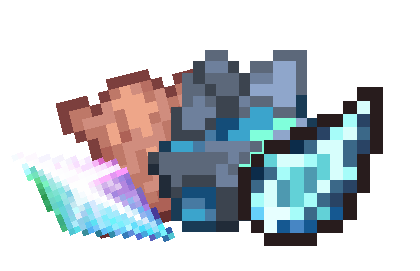
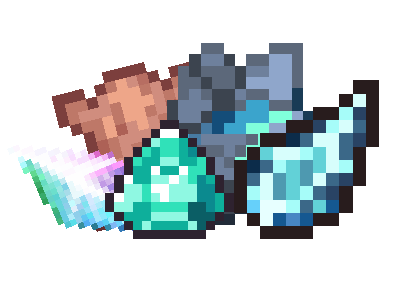
Add new Textures

diff --git a/Map/data.js b/Map/data.js
@@ -432,7 +432,7 @@ const FLOOR_MARKERS = {
     { id: 'm1a5',  type: 'artisant', gx: 1787, gy: 4697, name: "Forgeron d'Accessoires en Cuivre",  desc: "Forgeron des Accessoires en Cuivre pour Débutants", link: 'https://drabiot.github.io/Veilleurs/Bestiaire/bestiaire.html#personnages/forgeron_accessoires_cuivre_vdp' },
     { id: 'm1a6',  type: 'artisant', gx: 1776, gy: 4684, name: "Forgeron d'Accessoires en Fer",     desc: "Forgeron des Accessoires en Fer pour Débutants", link: 'https://drabiot.github.io/Veilleurs/Bestiaire/bestiaire.html#personnages/forgeron_accessoires_fer_vdp' },
     { id: 'm1a7',  type: 'artisant', gx: 1776, gy: 4693, name: 'Refaçonneur',                       desc: "Permet la fabrication de ficelle en tout genre", link: 'https://drabiot.github.io/Veilleurs/Bestiaire/bestiaire.html#personnages/refaconneur_vdp' },
-    { id: 'm1a8',  type: 'artisant', gx: 2397, gy: 3568, name: 'Forgeron de Lingots',               desc: "Forgeron de Lingots de Cuivre et de Fer", link: 'https://drabiot.github.io/Veilleurs/Bestiaire/bestiaire.html#personnages/forgeron_lingot_vdp' },
+    { id: 'm1a8',  type: 'artisant', gx: 2397, gy: 3568, name: 'Forgeron de Lingots Cuivre & Fer',               desc: "Forgeron de Lingots de Cuivre et de Fer", link: 'https://drabiot.github.io/Veilleurs/Bestiaire/bestiaire.html#personnages/forgeron_lingot_vdp' },
     { id: 'm1a9',  type: 'artisant', gx: 3235, gy: 1482, name: "Forgeron d'Armes",                  desc: "Forgeron des Armes pour Confirmés", link: 'https://drabiot.github.io/Veilleurs/Bestiaire/bestiaire.html#personnages/forgeron_armes_tolbana' },
     { id: 'm1a10', type: 'artisant', gx: 3237, gy: 1477, name: "Forgeron d'Armures",                desc: "Forgeron des Armures pour Confirmés", link: 'https://drabiot.github.io/Veilleurs/Bestiaire/bestiaire.html#personnages/forgeron_armures_tolbana' },
     { id: 'm1a11', type: 'artisant', gx: 2415, gy: 2373, name: "Forgeron d'Armes",                  desc: "Forgeron d'Armes du Donjon du Labyrinthe des Déchus", link: 'https://drabiot.github.io/Veilleurs/Bestiaire/bestiaire.html#personnages/forgeron_armes_labyrinthe' },
@@ -452,8 +452,8 @@ const FLOOR_MARKERS = {
 
     { id: 'm1m1',  type: 'marchand', gx: 1788, gy: 4162, name: "Marchand d'Équipement",    desc: "Vends des Armes et objets pour les Nouveaux Arrivants", link: 'https://drabiot.github.io/Veilleurs/Bestiaire/bestiaire.html#personnages/repreneur_equipement_vdp' },
     { id: 'm1m2',  type: 'marchand', gx: 1503, gy: 3391, name: "Marchand d'Équipement",    desc: "Vends des Armes et objets pour les Nouveaux Arrivants", link: 'https://drabiot.github.io/Veilleurs/Bestiaire/bestiaire.html#personnages/repreneur_equipement_hanaka' },
-    { id: 'm1m3',  type: 'marchand', gx: 485,  gy: 3058, name: "Marchand d'Accessoires",   desc: "Vends des Accessoires Gluants", link: 'https://drabiot.github.io/Veilleurs/Bestiaire/bestiaire.html#personnages/marchand_accessoire_vallhat' },
-    { id: 'm1m4',  type: 'marchand', gx: 3320, gy: 1605, name: "Marchand d'Accessoires",   desc: "Vends des Accessoires Résistants", link: 'https://drabiot.github.io/Veilleurs/Bestiaire/bestiaire.html#personnages/marchand_accessoire_tolbana' },
+    { id: 'm1m3',  type: 'marchand', gx: 485,  gy: 3058, name: "Marchand d'Accessoires Gluant",   desc: "Vends des Accessoires Gluants", link: 'https://drabiot.github.io/Veilleurs/Bestiaire/bestiaire.html#personnages/marchand_accessoire_vallhat' },
+    { id: 'm1m4',  type: 'marchand', gx: 3320, gy: 1605, name: "Marchand d'Accessoires Tolbana",   desc: "Vends des Accessoires Résistants", link: 'https://drabiot.github.io/Veilleurs/Bestiaire/bestiaire.html#personnages/marchand_accessoire_tolbana' },
     { id: 'm1m5',  type: 'marchand', gx: 1813, gy: 4162, name: "Marchand d'Outils",        desc: "Vends des outils pour récolter des matières premières", link: 'https://drabiot.github.io/Veilleurs/Bestiaire/bestiaire.html#personnages/marchand_outils_vdp' },
     { id: 'm1m6',  type: 'marchand', gx: 1587, gy: 1985, name: "Marchand d'Outils",        desc: "Vends des outils pour récolter des matières premières", link: 'https://drabiot.github.io/Veilleurs/Bestiaire/bestiaire.html#personnages/marchand_outils_virelune' },
     { id: 'm1m7',  type: 'marchand', gx: 3335, gy: 1621,  name: "Marchand d'Outils",        desc: "Vends des outils pour récolter des matières premières", link: 'https://drabiot.github.io/Veilleurs/Bestiaire/bestiaire.html#personnages/marchand_outils_tolbana' },
@@ -620,20 +620,20 @@ const FLOOR_MARKERS = {
     { id: 'm2c5', type: 'clef', emoji: '💍', gx: -37, gy: 199, name: "Fabricant Secret du Sanctuaire",                       desc: "Permet la confection Secrète du Collier Runique",     link: 'https://guilde-sao.gitbook.io/watchers/paliers/palier-2/carte/personnages/fabricants-clefs-et-secrets#sanctuaire-de-khesun' },
 	{ id: 'm2c6', type: 'clef', emoji: '💍', gx: -713, gy: -92, name: "Fabricant Secret de la Corruption",                    desc: "Permet la confection Secrète du très puissant Masque Corrompu",     link: 'https://guilde-sao.gitbook.io/watchers/paliers/palier-2/~/changes/107/carte/personnages/fabricants-clefs-et-secrets#corruption' },
 
-    { id: 'm2m1',  type: 'marchand', gx: -573, gy: -287, name: "Marchand d'Équipement",    desc: "Vends des Armes et objets pour les Nouveaux Arrivants", link: 'https://guilde-sao.gitbook.io/watchers/paliers/palier-2/carte/personnages/marchands#kaelor' },
-    { id: 'm2m2',  type: 'marchand', gx: -570, gy: -287, name: "Marchand d'Accessoires",   desc: "Vends des Accessoires de la faune du Palier 2", link: 'https://guilde-sao.gitbook.io/watchers/paliers/palier-2/carte/personnages/marchands#kaelor-1' },
-    { id: 'm2m3',  type: 'marchand', gx: -583, gy: -284, name: "Marchand d'Outils",        desc: "Vends des outils pour récolter des matières premières", link: 'https://guilde-sao.gitbook.io/watchers/paliers/palier-2/carte/personnages/marchands#kaelor-2' },
+    { id: 'm2m1',  type: 'marchand', gx: -573, gy: -287, name: "Marchand d'Équipement",    desc: "Vends des Armes et objets pour les Nouveaux Arrivants", link: 'https://drabiot.github.io/Veilleurs/Bestiaire/bestiaire.html#personnages/marchand_equipement_kaelor' },
+    { id: 'm2m2',  type: 'marchand', gx: -570, gy: -287, name: "Marchand d'Accessoires",   desc: "Vends des Accessoires de la faune du Palier 2", link: 'https://drabiot.github.io/Veilleurs/Bestiaire/bestiaire.html#personnages/marchand_accessoires_kaelor' },
+    { id: 'm2m3',  type: 'marchand', gx: -583, gy: -284, name: "Marchand d'Outils",        desc: "Vends des outils pour récolter des matières premières", link: 'https://drabiot.github.io/Veilleurs/Bestiaire/bestiaire.html#personnages/marchand_outils_kaelor' },
 
-    { id: 'm2a1', type: 'artisant',  gx: -570, gy: -293, name: 'Alchimiste',               desc: "Alchimiste permettant la Réalisation de Potions et Cristaux", link: 'https://guilde-sao.gitbook.io/watchers/paliers/palier-2/carte/personnages/alchimistes#kaelor' },
-    { id: 'm2a2', type: 'artisant',  gx: -573, gy: -294, name: 'Bucheron',                 desc: "Bucheron permettant la Réalisation de Planches", link: 'https://guilde-sao.gitbook.io/watchers/paliers/palier-2/carte/personnages/bucherons#kaelor' },
-    { id: 'm2a3', type: 'artisant',  gx: 2,    gy: -357, name: 'Refaçonneur',              desc: "Permet la fabrication de ficelle en tout genre", link: 'https://guilde-sao.gitbook.io/watchers/paliers/palier-2/carte/personnages/refaconneurs#urbus' },
-    { id: 'm2a4', type: 'artisant',  gx: 115,  gy: -415, name: 'Forgeron d\'Accessoires',  desc: "Permet la fabrication d'Accessoires puissant", link: 'https://guilde-sao.gitbook.io/watchers/paliers/palier-2/carte/personnages/forgerons#urbus-accessoires' },
-    { id: 'm2a5', type: 'artisant',  gx: 124,  gy: -385, name: 'Forgeron de Lingots',      desc: "Permet la fabrication de lingots de Bauxite et d'Onyx Impur", link: '' },
-    { id: 'm2a6', type: 'artisant',  gx: 867, gy: -293, name: 'Forgeron de Lingots',      desc: "Permet la fabrication de lingots d'Onyx Pur", link: '' },
-    { id: 'm2a7', type: 'artisant',  gx: -602, gy: -284, name: 'Forgeron d\'Accessoires',  desc: "Permet la fabrication d'Accessoires des Ours et du Taureau", link: 'https://guilde-sao.gitbook.io/watchers/paliers/palier-2/carte/personnages/forgerons#kaelor-accessoires' },
-    { id: 'm2a8', type: 'artisant',  gx: -776, gy: 18,   name: 'Forgeron d\'Accessoires',  desc: "Permet la fabrication d'Accessoires de Feraille", link: 'https://guilde-sao.gitbook.io/watchers/paliers/palier-2/carte/personnages/forgerons#accessoires-ferraile' },
-    { id: 'm2a9', type: 'artisant',  gx: -194, gy: 20,   name: 'Forgeron d\'Accessoires',  desc: "Permet la fabrication d'Accessoires de Bauxite", link: 'https://guilde-sao.gitbook.io/watchers/paliers/palier-2/carte/personnages/forgerons#accessoires-bauxite' },
-    { id: 'm2a10',type: 'artisant',  gx: -502, gy: 336,   name: 'Forgeron d\'Accessoires',  desc: "Permet la fabrication d'Accessoires d'Onyx Impur", link: '' },
+    { id: 'm2a1', type: 'artisant',  gx: -570, gy: -293, name: 'Alchimiste',               desc: "Alchimiste permettant la Réalisation de Potions et Cristaux", link: 'https://drabiot.github.io/Veilleurs/Bestiaire/bestiaire.html#personnages/alchimiste_kaelor' },
+    { id: 'm2a2', type: 'artisant',  gx: -573, gy: -294, name: 'Bucheron',                 desc: "Bucheron permettant la Réalisation de Planches", link: 'https://drabiot.github.io/Veilleurs/Bestiaire/bestiaire.html#personnages/bucheron_kaelor' },
+    { id: 'm2a3', type: 'artisant',  gx: 2,    gy: -357, name: 'Refaçonneur',              desc: "Permet la fabrication de ficelle en tout genre", link: 'https://drabiot.github.io/Veilleurs/Bestiaire/bestiaire.html#personnages/refaconneur_urbus' },
+    { id: 'm2a4', type: 'artisant',  gx: 115,  gy: -415, name: 'Forgeron d\'Accessoires Puissant',  desc: "Permet la fabrication d'Accessoires puissant", link: 'https://drabiot.github.io/Veilleurs/Bestiaire/bestiaire.html#personnages/forgeron_accessoires_urbus' },
+    { id: 'm2a5', type: 'artisant',  gx: 124,  gy: -385, name: 'Forgeron de Lingots Bauxite & Onyx Impur',      desc: "Permet la fabrication de lingots de Bauxite et d'Onyx Impur", link: 'https://drabiot.github.io/Veilleurs/Bestiaire/bestiaire.html#personnages/forgeron_lingots_urbus' },
+    { id: 'm2a6', type: 'artisant',  gx: 867, gy: -293, name: 'Forgeron de Lingots Onyx Pur',      desc: "Permet la fabrication de lingots d'Onyx Pur", link: 'https://drabiot.github.io/Veilleurs/Bestiaire/bestiaire.html#personnages/forgeron_lingots_marome' },
+    { id: 'm2a7', type: 'artisant',  gx: -602, gy: -284, name: 'Forgeron d\'Accessoires',  desc: "Permet la fabrication d'Accessoires des Ours et du Taureau", link: 'https://drabiot.github.io/Veilleurs/Bestiaire/bestiaire.html#personnages/forgeron_accessoires_kaelor' },
+    { id: 'm2a8', type: 'artisant',  gx: -776, gy: 18,   name: 'Forgeron d\'Accessoires',  desc: "Permet la fabrication d'Accessoires de Feraille", link: 'https://drabiot.github.io/Veilleurs/Bestiaire/bestiaire.html#personnages/forgeron_accessoires_ferraille' },
+    { id: 'm2a9', type: 'artisant',  gx: -194, gy: 20,   name: 'Forgeron d\'Accessoires',  desc: "Permet la fabrication d'Accessoires de Bauxite", link: 'https://drabiot.github.io/Veilleurs/Bestiaire/bestiaire.html#personnages/forgeron_accessoires_bauxite' },
+    { id: 'm2a10',type: 'artisant',  gx: -502, gy: 336,   name: 'Forgeron d\'Accessoires',  desc: "Permet la fabrication d'Accessoires d'Onyx Impur", link: 'https://drabiot.github.io/Veilleurs/Bestiaire/bestiaire.html#personnages/forgeron_accessoires_onyx_impur' },
 
     { id: 'm2s1',  type: 'quête_secondaire',  gx: 112, gy: -391, name: "L'Art des Plumes",                         desc: "Ramenez 4 plumes de chaque Harpies à Ifa", link: 'https://guilde-sao.gitbook.io/watchers/paliers/palier-2/quetes/quetes-secondaires/urbus/lart-des-plumes' },
     { id: 'm2s2',  type: 'quête_secondaire',  gx: 105, gy: -392, name: "L'Art des Peaux",                         desc: "Ramenez différentes peaux de monstres à Ife", link: 'https://guilde-sao.gitbook.io/watchers/paliers/palier-2/quetes/quetes-secondaires/urbus/lart-des-peaux' },
@@ -686,7 +686,7 @@ const FLOOR_MARKERS_UNDERGROUND = {
 
     { id: 'm2c1u1', type: 'clef', emoji: '💍', gx: -694, gy: 205, name: "Fabricant Secret de la Harpie Enflammée",                     desc: "Permet la confection Secrète de l'Anneau de la Harpie Enflammée",     link: 'https://guilde-sao.gitbook.io/watchers/paliers/palier-2/carte/personnages/fabricants-clefs-et-secrets#nid-de-brasier' },
 
-    { id: 'm2a1u1',type: 'artisant',  gx: 339, gy: 509,   name: 'Forgeron d\'Accessoires',                 desc: "Permet la fabrication d'Accessoires d'Onyx Pur", link: '' },
+    { id: 'm2a1u1',type: 'artisant',  gx: 339, gy: 509,   name: 'Forgeron d\'Accessoires',                 desc: "Permet la fabrication d'Accessoires d'Onyx Pur", link: 'https://drabiot.github.io/Veilleurs/Bestiaire/bestiaire.html#personnages/forgeron_accessoires_onyx_pur' },
   ],
 };
 

diff --git a/Bestiaire/data.js b/Bestiaire/data.js
@@ -490,7 +490,7 @@ const PERSONNAGES = [
     palier: 1,
     region: 'Ville de Départ',
     regionId: 'm1a3',
-    img: '../img/compendium/textures/trinkets/P1/Set Loup Faiblard/Collier d\'Albal.png',
+    img: '../img/compendium/montages/forgeron_accessoires_vdp.png',
     lore: "Permet le fabrication d'accessoires de base.",
     craft: [
 			{ 
@@ -701,7 +701,7 @@ const PERSONNAGES = [
     palier: 1,
     region: 'Ville de Départ',
     regionId: 'm1m18',
-    img: '',
+    img: '../img/compendium/montages/itinerant_vdp.png',
     lore: "Vends & Achète nombreux objets locaux et originaire du Palier 1",
     sells: [
       { id: 'petite_bourse',  buy: 10,price: 7.5 },
@@ -815,7 +815,7 @@ const PERSONNAGES = [
     palier: 1,
     region: 'Hanaka',
     regionId: 'm1m15',
-    img: '',
+    img: '../img/compendium/montages/itinerant_hanaka.png',
     lore: "Vends & Achète nombreux objets locaux et originaire du Palier 1",
     sells: [
       { id: 'pousse_de_sylve',  buy: 6, price: 5 },
@@ -897,7 +897,7 @@ const PERSONNAGES = [
     palier: 1,
     region: 'Mizunari',
     regionId: 'm1m14',
-    img: '',
+    img: '../img/compendium/montages/itinerant_mizunari.png',
     lore: "Vends & Achète nombreux objets locaux et originaire du Palier 1",
     sells: [
       { id: 'cuir_use',  buy: 10, price: 7.5 },
@@ -1004,7 +1004,7 @@ const PERSONNAGES = [
     palier: 1,
     region: 'Vallhat',
     regionId: 'm1m16',
-    img: '',
+    img: '../img/compendium/montages/itinerant_vallhat.png',
     lore: "Vends & Achète nombreux objets locaux et originaire du Palier 1",
     sells: [
       { id: 'pousse_de_sylve',  buy: 6,price: 4.5 },
@@ -1108,7 +1108,7 @@ const PERSONNAGES = [
     palier: 1,
     region: 'Virelune',
     regionId: 'm1m17',
-    img: '',
+    img: '../img/compendium/montages/itinerant_virelune.png',
     lore: "Vends & Achète nombreux objets locaux et originaire du Palier 1",
     sells: [
       { id: 'tissu_araignee',  buy: 12,price: 9 },
@@ -1340,7 +1340,7 @@ const PERSONNAGES = [
     palier: 1,
     region: 'Tolbana',
     regionId: 'm1m13',
-    img: '',
+    img: '../img/compendium/montages/itinerant_tolbana.png',
     lore: "Vends & Achète nombreux objets locaux et originaire du Palier 1",
     sells: [
       { id: 'peau_dur_glacial',  buy: 20, price: 15 },
@@ -1606,7 +1606,7 @@ const PERSONNAGES = [
     palier: 1,
     region: 'Forêt d\'Arakh\'Nol',
     regionId: 'm1m11',
-    img: '',
+    img: '../img/compendium/montages/itinerant_virelune.png',
     lore: "Vends & Achète nombreux objets locaux et originaire du Palier 1",
     sells: [
       { id: 'tissu_araignee',  buy: 12, price: 9 },
@@ -1973,7 +1973,7 @@ const PERSONNAGES = [
     palier: 2,
     region: 'Urbus',
 		regionId: 'm2b1',
-    img: '',
+    img: '../img/compendium/montages/butin_urbus.png',
     lore: "Reprends des objets de Taureaux et d'Ours.",
     sells: [
       { id: 'peau_epaisse',  price: 10 },
@@ -1991,7 +1991,7 @@ const PERSONNAGES = [
     palier: 2,
     region: 'Urbus',
     regionId: 'm2a3',
-    img: '',
+    img: '../img/compendium/montages/refaconneur_urbus.png',
     lore: "Transforme des Ressources et des Fils d'Araignées pour réaliser des ficelles utile dans la confection d'Accessoires.",
     craft: [
 			{ 
@@ -2039,7 +2039,7 @@ const PERSONNAGES = [
     palier: 2,
     region: 'Urbus',
     regionId: 'm2a4',
-    img: '',
+    img: '../img/compendium/montages/forgeron_accessoires_urbus.png',
     lore: "Permet la création d'Accessoires puissant.",
     craft: [
 			{ 
@@ -2103,7 +2103,7 @@ const PERSONNAGES = [
     palier: 2,
     region: 'Urbus',
     regionId: 'm2a5',
-    img: '',
+    img: '../img/compendium/montages/lingots_urbus.png',
     lore: "Permet le fabrication de Lingots de Bauxite et de Lingots d'Onyx Impur.",
     craft: [
 			{ 
@@ -2131,7 +2131,7 @@ const PERSONNAGES = [
     palier: 2,
     region: 'Kaelor',
 		regionId: 'm2b2',
-    img: '',
+    img: '../img/compendium/montages/butin_kaelor.png',
     lore: "Reprends des objets des Harpies et des Loups au Nord de Kaelor.",
     sells: [
       { id: 'plume_terreuse',  price: 9 },
@@ -2174,7 +2174,7 @@ const PERSONNAGES = [
     palier: 2,
     region: 'Kaelor',
     regionId: 'm2m2',
-    img: '',
+    img: '../img/compendium/montages/marchand_accessoires_kaelor.png',
     lore: "Vends des Accessoires simple mais efficace pour commencer son aventure du Palier 2.",
     sells: [
       { id: 'bracelet_loups',  buy: 5000 },
@@ -2343,7 +2343,7 @@ const PERSONNAGES = [
     palier: 2,
     region: 'Kaelor',
     regionId: 'm2a7',
-    img: '',
+    img: '../img/compendium/montages/forgeron_accessoires_kaelor.png',
     lore: "Permet le fabrication d'Accessoires à base de Taureaux & d'Ours.",
     craft: [
 			{ 
@@ -2392,7 +2392,7 @@ const PERSONNAGES = [
     palier: 2,
     region: 'Baie des Monstres Ondoyante',
     regionId: 'm2a8',
-    img: '',
+    img: '../img/compendium/textures/trinkets/P2/Set de Ferraille/Anneau de Ferraille.png',
     lore: "Permet le fabrication d'Accessoires de Ferraille.",
     craft: [
 			{ 
@@ -2441,7 +2441,7 @@ const PERSONNAGES = [
     palier: 2,
     region: 'Marome',
 		regionId: 'm2b3',
-    img: '',
+    img: '../img/compendium/montages/butin_marome.png',
     lore: "Reprends des objets du Sanctuaire de Khesûn.",
     sells: [
       { id: 'vetement_dechire',  price: 10 },
@@ -2479,7 +2479,7 @@ const PERSONNAGES = [
     palier: 2,
     region: 'Baobab Millénaire',
     regionId: 'm2a9',
-    img: '',
+    img: '../img/compendium/textures/trinkets/P2/Set de Bauxite/Anneau de Bauxite.png',
     lore: "Permet le fabrication d'Accessoires de Bauxite.",
     craft: [
 			{ 
@@ -2521,7 +2521,7 @@ const PERSONNAGES = [
     palier: 2,
     region: 'Taran',
     regionId: 'm2a10',
-    img: '',
+    img: '../img/compendium/textures/trinkets/P2/Set d\'Onyx Impur/Anneau d\'Onyx Impur.png',
     lore: "Permet le fabrication d'Accessoires d'Onyx Impur.",
     craft: [
 			{ 
@@ -2566,7 +2566,7 @@ const PERSONNAGES = [
     palier: 2,
     region: 'Grottes de la Faille du Sud-Est',
     regionId: 'm2a1u1',
-    img: '',
+    img: '../img/compendium/textures/trinkets/P2/Set d\'Onyx Pur/Anneau d\'Onyx Pur.png',
     lore: "Permet le fabrication d'Accessoires d'Onyx Pur.",
     craft: [
 			{ 
